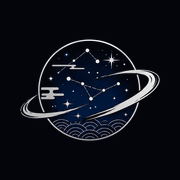
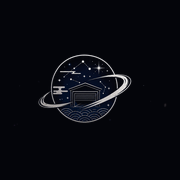
Apply approved v03 hero lockup (garage-door planet + serif EUNGARAGE)
- Add assets/images/brand/: source PNG preserved, keyed transparent
  lockup (1312x947, webp ~293KB) and planet+garage-door symbol
  (720x347, ~241KB) derived without redrawing the approved art.
- Hero now shows the single approved lockup image (microcopy, planet
  with garage-door symbol, serif EUNGARAGE, slogan); the old symbol,
  HTML wordmark, slogan and hero-tag are removed so nothing repeats.
  SEO/screen-reader copy kept in a visually-hidden block; the page h1
  is now EUNGARAGE and the Korean headline is a styled <p>.
- Garage-door intro uses the symbol-only derivative (no wordmark), so
  the full lockup appears only after the door opens.
- favicon / apple-touch-icon / og-image regenerated from the new
  symbol; old v01 symbol and Saturn mark moved to assets/archive/legacy/.
- Header nav wordmark calmed per spec (weights 640/500, tracking .12em).
  One-time entrance animation only; reduced-motion shows instantly.

Changed region(s): [[0.1111, 0.1944, 0.8889, 0.8056], [0.6944, 0.3056, 0.7222, 0.3333]]

diff --git a/assets/css/style.css b/assets/css/style.css
@@ -44,9 +44,11 @@ img{display:block;max-width:100%}
 }
 .brand-wordmark__eun{font-weight:680}
 .brand-wordmark__garage{font-weight:380}
-.brand-word{font-size:1.06rem}
+/* header nav wordmark: calmer weights + wider tracking */
+.brand-word{font-size:1.02rem;letter-spacing:.12em}
+.brand-word .brand-wordmark__eun{font-weight:640}
+.brand-word .brand-wordmark__garage{font-weight:500}
 .footer-word{font-size:1.2rem}
-.hero-wordmark{font-size:clamp(2rem,7vw,4.4rem)}
 .contact-wordmark{font-size:inherit;letter-spacing:-.04em}
 
 /* ── Nav ── */
@@ -77,23 +79,16 @@ img{display:block;max-width:100%}
   border:1px solid rgba(255,255,255,.05);border-radius:50%;
 }
 .hero-content{position:relative;z-index:7;text-align:center;padding-top:20px}
-.hero-tag{
-  font-family:var(--mono);font-size:.58rem;letter-spacing:.3em;text-transform:uppercase;
-  color:var(--silver-muted);margin:0 0 18px;opacity:0;animation:softIn .8s .25s var(--ease) forwards;
-}
-.hero-logo-stage{display:grid;justify-items:center;gap:16px}
-.hero-symbol{
-  width:clamp(200px,30vw,360px);height:auto;object-fit:contain;aspect-ratio:420 / 312;
-  opacity:0;transform:translateY(6px);animation:heroLogoIn 1s .12s var(--ease) forwards;
+.hero-logo-stage{display:grid;justify-items:center}
+.hero-lockup{
+  display:block;margin:0 auto;pointer-events:none;
+  width:clamp(420px,48vw,680px);max-width:92vw;max-height:68vh;
+  height:auto;aspect-ratio:1312 / 947;object-fit:contain;
+  opacity:0;transform:translateY(6px);animation:heroLogoIn .7s .12s var(--ease) forwards;
 }
 @keyframes heroLogoIn{to{opacity:1;transform:none}}
-@keyframes softIn{to{opacity:1}}
-.hero-slogan{
-  margin:2px 0 0;font-size:clamp(.6rem,1.4vw,.74rem);letter-spacing:.3em;text-transform:uppercase;
-  color:var(--silver-muted);opacity:0;animation:softIn .9s .5s var(--ease) forwards;
-}
-.hero h1{font-size:clamp(1.45rem,2.8vw,2.8rem);font-weight:350;letter-spacing:-.035em;margin:26px auto 15px;max-width:920px;opacity:0;transform:translateY(16px);animation:textLift 1s .7s var(--ease) forwards}
-.hero h1 em{font-style:normal;color:#fff}
+.hero-headline{font-size:clamp(1.45rem,2.8vw,2.8rem);font-weight:350;letter-spacing:-.035em;margin:22px auto 15px;max-width:920px;color:var(--text);opacity:0;transform:translateY(16px);animation:textLift 1s .55s var(--ease) forwards}
+.hero-headline em{font-style:normal;color:#fff}
 .hero-copy{color:var(--muted);max-width:620px;margin:0 auto;font-size:clamp(.96rem,1.5vw,1.12rem);opacity:0;transform:translateY(14px);animation:textLift 1s .84s var(--ease) forwards}
 @keyframes textLift{to{opacity:1;transform:none}}
 .scroll-cue{position:absolute;z-index:4;left:50%;bottom:30px;transform:translateX(-50%);display:flex;align-items:center;gap:12px;font-size:.65rem;letter-spacing:.25em;color:#9da2b1}
@@ -269,7 +264,7 @@ body.garage-lock{overflow:hidden!important}
 }
 .garage-intro--open .garage-door{transform:translateY(-105%)}
 .garage-door__branding{position:absolute;inset:0;display:grid;place-items:center;padding:24px}
-.garage-door__logo{width:clamp(150px,32vw,290px);height:auto;aspect-ratio:420 / 312;object-fit:contain;filter:drop-shadow(0 8px 24px rgba(0,0,0,.5))}
+.garage-door__logo{width:clamp(200px,40vw,360px);height:auto;aspect-ratio:720 / 347;object-fit:contain;filter:drop-shadow(0 8px 24px rgba(0,0,0,.5))}
 .garage-door__light{position:absolute;left:-5%;right:-5%;bottom:0;height:14px;background:linear-gradient(to top,rgba(226,238,255,.9),rgba(196,222,255,.28) 42%,transparent);filter:blur(6px);opacity:0;transition:opacity .35s ease .05s}
 .garage-intro--open .garage-door__light{opacity:1}
 .garage-intro__skip{
@@ -289,6 +284,7 @@ body.garage-lock{overflow:hidden!important}
   .menu-toggle{display:block;z-index:2}
   .menu-toggle.open span:first-child{transform:translateY(3.5px) rotate(45deg)}
   .menu-toggle.open span:last-child{transform:translateY(-3.5px) rotate(-45deg)}
+  .hero-lockup{width:min(72vw,520px)}
   .ghost{width:33vw;opacity:.9}.ghost.one{left:-9%}.ghost.two{right:-10%}.ghost.three{display:none}
   .manifesto{padding:110px 0}
   .manifesto-grid,.about-grid{grid-template-columns:1fr;gap:45px}
@@ -305,10 +301,8 @@ body.garage-lock{overflow:hidden!important}
   .support-grid{grid-template-columns:1fr}
 }
 @media(max-width:560px){
-  .hero-symbol{width:min(58vw,240px)}
-  .hero-wordmark{font-size:12.5vw}
-  .hero-tag{letter-spacing:.22em;font-size:.54rem}
-  .hero h1{font-size:1.7rem}
+  .hero-lockup{width:min(86vw,390px)}
+  .hero-headline{font-size:1.7rem}
   .manifesto-copy{font-size:14vw}
   .poster-frame{max-width:94vw}
   .poster-frame img{width:100%;height:auto;max-height:none}
@@ -321,7 +315,7 @@ body.garage-lock{overflow:hidden!important}
 @media(prefers-reduced-motion:reduce){
   *{scroll-behavior:auto!important;animation-duration:.01ms!important;animation-iteration-count:1!important;transition-duration:.01ms!important}
   .garage-intro{display:none}
-  .hero-symbol,.hero-tag,.hero-slogan,.hero h1,.hero-copy{opacity:1;transform:none;animation:none}
+  .hero-lockup,.hero-headline,.hero-copy{opacity:1;transform:none;animation:none}
   .poster-shutter{transform:translateY(-100%)}
   .blueprint-open{opacity:1}
   .marquee-track{animation:none}

diff --git a/index.html b/index.html
@@ -7,7 +7,8 @@
 <meta name="theme-color" content="#04050a">
 <link rel="icon" href="./assets/images/favicon.png">
 <link rel="apple-touch-icon" href="./apple-touch-icon.png">
-<link rel="preload" as="image" href="./assets/images/eungarage-symbol.png" fetchpriority="high">
+<link rel="preload" as="image" href="./assets/images/brand/eungarage_planet_garage_symbol_v03.png" fetchpriority="high">
+<link rel="preload" as="image" href="./assets/images/brand/eungarage_hero_lockup_v03.webp" fetchpriority="high">
 <link rel="stylesheet" href="./assets/css/style.css">
 <meta property="og:type" content="website">
 <meta property="og:image" content="./assets/images/og-image.jpg">
@@ -25,8 +26,8 @@
 <div id="garageIntro" class="garage-intro">
   <div class="garage-door" aria-hidden="true">
     <div class="garage-door__branding">
-      <img class="garage-door__logo" src="./assets/images/eungarage-symbol.png"
-           alt="" width="420" height="312" fetchpriority="high" decoding="async">
+      <img class="garage-door__logo" src="./assets/images/brand/eungarage_planet_garage_symbol_v03.png"
+           alt="" width="720" height="347" fetchpriority="high" decoding="async">
     </div>
     <span class="garage-door__light" aria-hidden="true"></span>
   </div>
@@ -59,15 +60,17 @@
       <div class="ghost three"><img src="./assets/images/worm-up-keyart.webp" alt=""></div>
     </div>
     <div class="container hero-content">
-      <p class="hero-tag">INDEPENDENT GAME &amp; APP STUDIO</p>
       <div class="hero-logo-stage">
-        <img class="hero-symbol" src="./assets/images/eungarage-symbol.png"
-             width="420" height="312" fetchpriority="high" decoding="async"
-             alt="한국 전통 별자리와 구름, 파도 문양을 결합한 EUNGARAGE 심볼">
-        <span class="brand-wordmark hero-wordmark" role="img" aria-label="EUNGARAGE"><span class="brand-wordmark__eun">EUN</span><span class="brand-wordmark__garage">GARAGE</span></span>
-        <p class="hero-slogan">MADE BY HAND · FELT BY HEART</p>
+        <img class="hero-lockup" src="./assets/images/brand/eungarage_hero_lockup_v03.webp"
+             width="1312" height="947" loading="eager" fetchpriority="high" decoding="async"
+             alt="별자리 행성과 차고문 심볼을 결합한 EUNGARAGE 로고">
+        <div class="hero-brand-copy visually-hidden">
+          <p>INDEPENDENT GAME · APP · AI WORKSHOP</p>
+          <h1>EUNGARAGE</h1>
+          <p>MADE BY HAND · FELT BY HEART</p>
+        </div>
       </div>
-      <h1>감정이 궤도를 넘어, <em>하나의 세계가 됩니다.</em></h1>
+      <p class="hero-headline">감정이 궤도를 넘어, <em>하나의 세계가 됩니다.</em></p>
       <p class="hero-copy">EUNGARAGE는 캐릭터와 이야기를 중심으로 오래 기억될 게임과 디지털 경험을 만듭니다.</p>
     </div>
     <a class="scroll-cue" href="#manifesto"><span>SCROLL</span><i></i></a>
